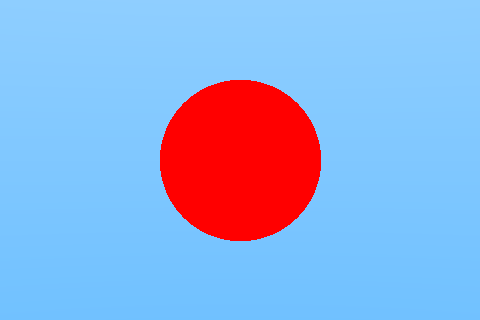
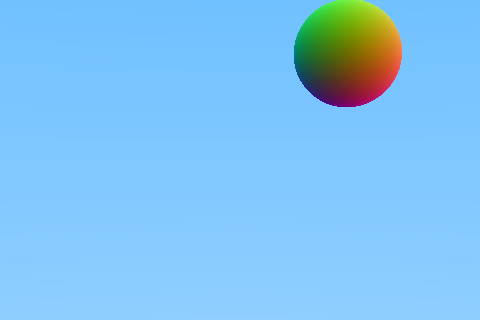
add sphere class and normal rendering

diff --git a/src/main.cpp b/src/main.cpp
@@ -1,23 +1,22 @@
 #include"Framebuffer.h"
 #include "Camera.h"
+#include "Sphere.h"
 
-bool hit_sphere(const Ray& ray, vec3 center, float radius)
-{
-    vec3 origin = ray.origin;
-    vec3 oc = origin - center;
-    float b = 2.0f *oc.dot(ray.direction);
-    float c = oc.dot(oc) - radius * radius;
-    float discr = b*b - 4.0f * c;
-    return (discr > 0.0f);
-}
 
-vec3 RenderScene(const Ray& ray)
+vec3 RenderScene(Ray& ray)
 {
 	vec3 colorA = { 255.0f};
 	vec3 colorB = { 128.0f,200.0f,255.0f };
-    if(hit_sphere(ray,vec3(0.0f,0.0f,-1.0f), .50f))
-        return vec3(255.0f,0.0f,0.0f);
-
+    Sphere sp = {vec3(1.0f,.0f,1.0f), 0.5f};//+x:right,+y:up, +z:in
+    float dist = sp.getIntersection(ray);
+    if(dist > 0.f)
+    {
+        vec3 collision = ray.across(dist);
+        vec3 normal = sp.getNormal(collision);
+        vec3 color = (normal + 1.0f) *0.5f;
+        return color * 255.f;
+    }
+    //background
     vec3 dir = ray.direction;
     float t = dir.y * 0.5f + 1.f;
     return colorA.interpolate(colorB, t);

diff --git a/src/Sphere.cpp b/src/Sphere.cpp
@@ -1,9 +1,26 @@
 #include "Sphere.h"
+#include <corecrt_math.h>
 
 Sphere::Sphere() {}
+Sphere::Sphere(vec3 c, float _radius): center(c), radius(_radius)  {}
 Sphere::~Sphere() {}
 
 float Sphere::getIntersection(Ray& ray)
 {
-    return 0.0f;
+    vec3 origin = ray.origin;
+    vec3 oc = origin - center;
+    float b = 2.0f *oc.dot(ray.direction);
+    float c = oc.dot(oc) - radius * radius;
+    const float discr = b*b - 4.0f * c;
+    if (discr < 0.0f)
+        return -1.0f;
+    const float sq_discr = sqrtf(discr);
+    float dist1 = -b - sq_discr;
+    float dist2 = -b + sq_discr;
+    return (dist1 > 0.0f) ? dist1/2.f : (dist2 > 0.0f) ? dist2/2.f : -1.0f;
+}
+
+vec3 Sphere::getNormal(vec3 collisionPoint)
+{
+    return ((collisionPoint-center)/radius).normalize();
 }

diff --git a/src/Camera.cpp b/src/Camera.cpp
@@ -8,7 +8,7 @@ Ray Camera::getray(float u, float v)
 {
     const float fov_rad = fov/180.0f;
     const float x = (u * 2.0f -1.0f) * fov_rad * aspect_ratio;
-    const float y = (v * 2.0f -1.0f) * fov_rad;
+    const float y = -(v * 2.0f -1.0f) * fov_rad;
     const float z = 1.0f;
     return {position, vec3(x,y,z).normalize()};
 }

diff --git a/src/Sphere.h b/src/Sphere.h
@@ -5,6 +5,7 @@
 class Sphere : public Primitive{
 public:
     Sphere();
+    Sphere(vec3 c, float _radius);
     ~Sphere();
     float getIntersection(Ray &ray) override;
     vec3 getNormal(vec3 collisionPoint) override;

diff --git a/src/Ray.h b/src/Ray.h
@@ -1,3 +1,4 @@
+#pragma once
 #include "vec.h"
 
 struct Ray {
